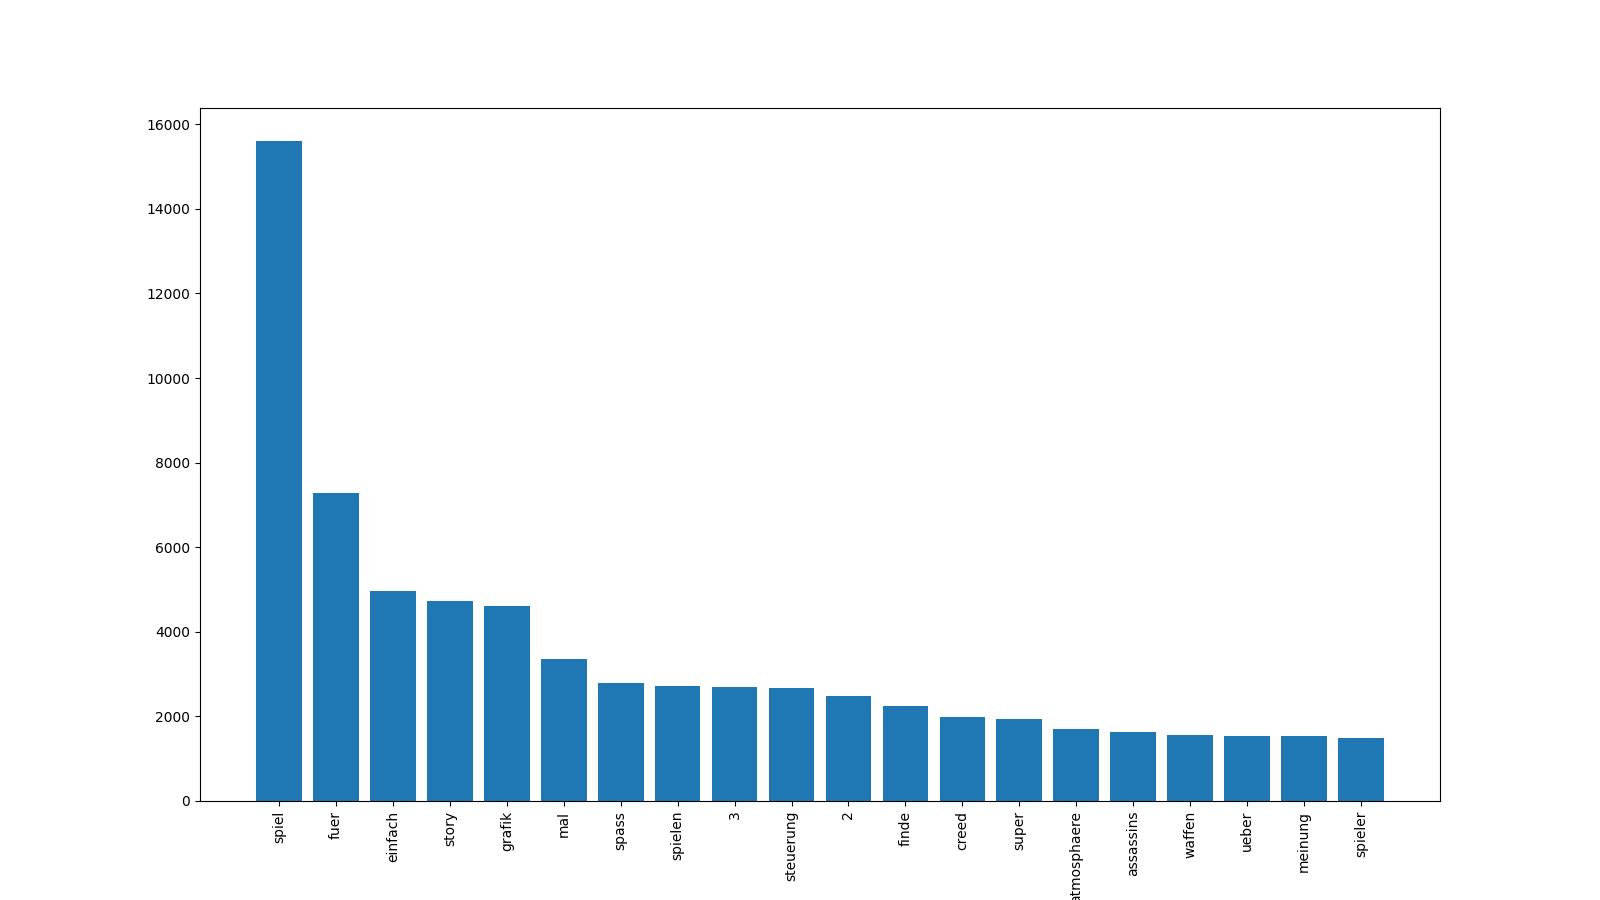
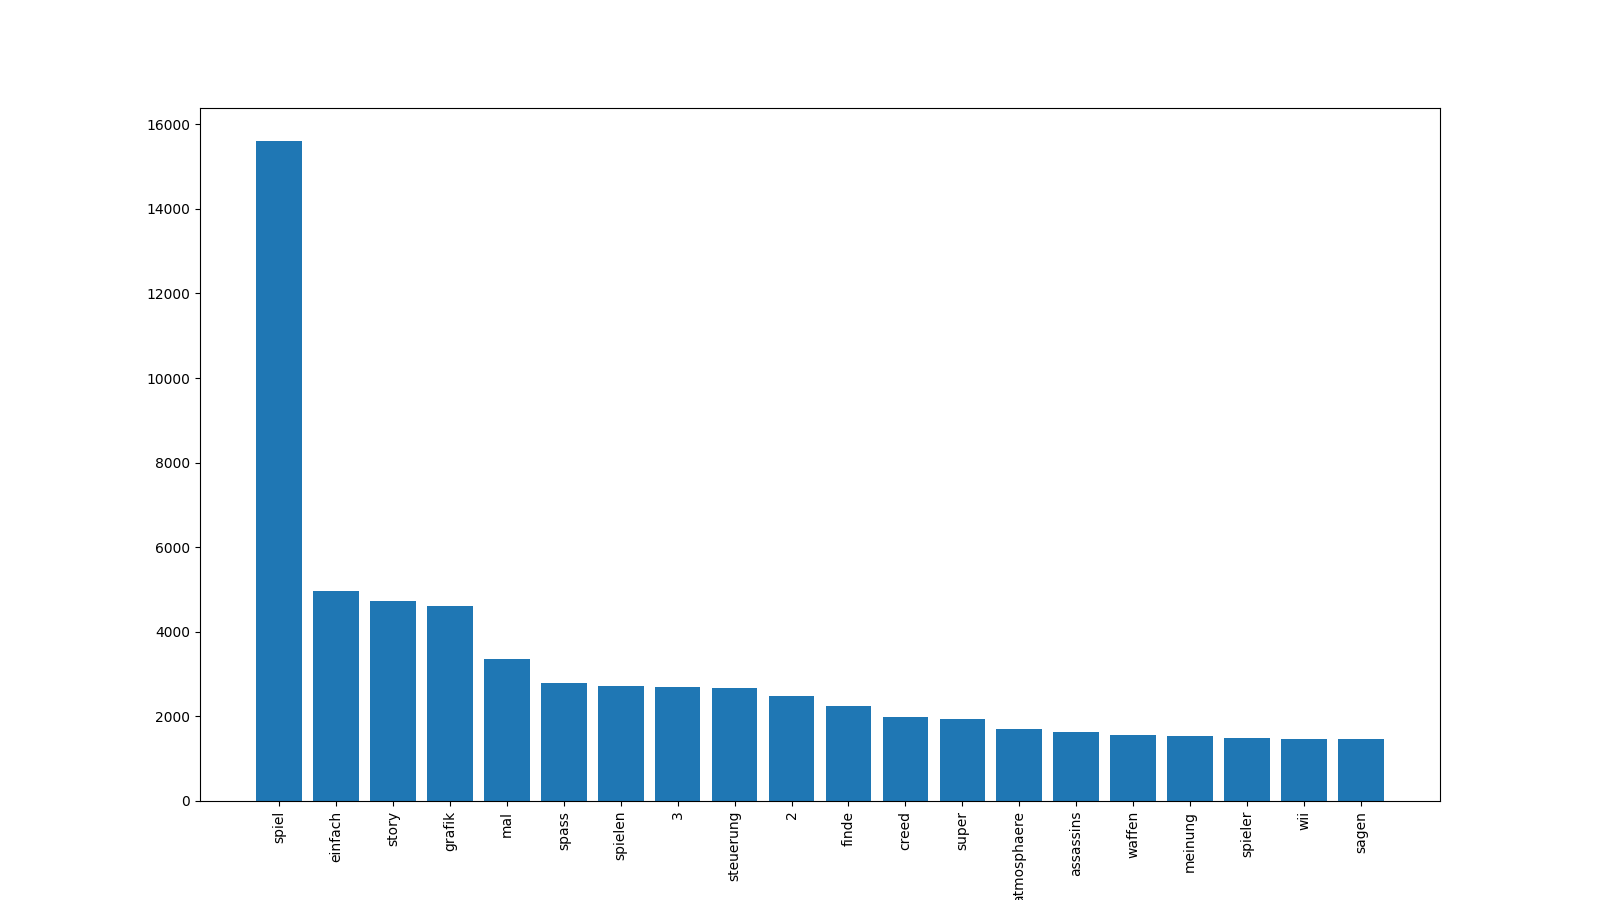
fix: changed stopword list to not use umlauts some more visuals

diff --git a/src/visualize_raw_data.py b/src/visualize_raw_data.py
@@ -56,6 +56,7 @@ def normalize_files(series):
     series = series.str.replace("Ist diese Meinung hilfreich\?", "")
     series = series.str.replace("\d+\s\w+\s\d+(\s\w+)+\.(\s\w+)+\?", "")
     series = series.str.replace("[^\w\s]", "").str.lower()
+    # series = series.str.replace('ae', 'ä').replace('oe', 'ö').replace('ue', 'ü')
     series = series.str.split()
     series = removeStopwords(series)
 
@@ -65,6 +66,10 @@ def normalize_files(series):
 def removeStopwords(series):
     nlp = spacy.load("de_core_news_sm", disable=["tagger", "parser", "ner"])
     stopwords = nlp.Defaults.stop_words
+
+    specialCharMap = {ord("ä"): "ae", ord("ü"): "ue", ord("ö"): "oe", ord("ß"): "ss"}
+    stopwords = [word.translate(specialCharMap) for word in stopwords]
+
     return series.apply(
         lambda x: [word for word in x if (word not in stopwords and word != "")]
     )
@@ -106,15 +111,18 @@ def plotWordCloud(series):
 
 def plotEntities(series):
     nlp = spacy.load('de_core_news_sm')
+    reviews = seriesToFlatArray(series)[:30000]
 
-    df_entities = pd.DataFrame(columns=['entitytext', 'entitiylabel'])
-    for review in series.tolist():
-        doc = nlp(','.join(review))
-        print(doc)
-        for ent in doc.ents:
-            df_entities.append([ent.text, ent.label_])
+    df_entities = []
+    doc = nlp(' '.join(reviews))
+    for ent in doc.ents:
+        df_entities.append(
+            {'entitytext': ent.text, 'entitiylabel': ent.label_})
 
-    print(df_entities)
+    df_entities = pd.DataFrame(df_entities)
+    df_entities_grouped = df_entities.groupby(
+        ['entitiylabel'])['entitytext'].apply(list)
+    print(df_entities_grouped)
 
 
 if __name__ == "__main__":
@@ -123,4 +131,4 @@ if __name__ == "__main__":
     mostCommon = mostCommonWords(normalizedData, 20)
     plotCommonWords(mostCommon)
     plotWordCloud(normalizedData)
-    plotEntities(normalizedData)
+    # plotEntities(normalizedData)
